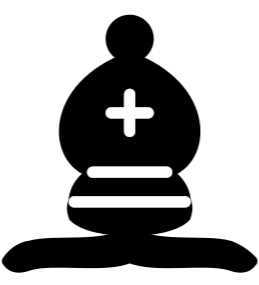
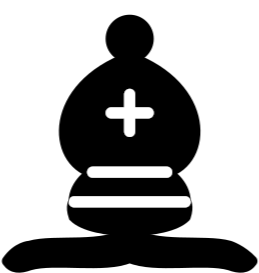
view: 기물들 위치 조정

diff --git a/src/main/resources/templates/index.html b/src/main/resources/templates/index.html
@@ -27,203 +27,203 @@
 {{#pieces}}
 <div style="position: relative;">
     <img src="/images/ChessBoard.png" alt="ChessBoard" width="800" height="800">
-    <div style="position: absolute; top: 30px; left: 25px;">
+    <div style="position: absolute; top: 25px; left: 25px;">
         <img src="/images/{{this.a8}}.png" alt="{{this.a8}}" width="50px" height="70px">
     </div>
-    <div style="position: absolute; top: 30px; left: 125px;">
+    <div style="position: absolute; top: 25px; left: 125px;">
         <img src="/images/{{this.b8}}.png" alt="{{this.b8}}" width="50px" height="70px">
     </div>
-    <div style="position: absolute; top: 30px; left: 225px;">
+    <div style="position: absolute; top: 25px; left: 225px;">
         <img src="/images/{{this.c8}}.png" alt="{{this.c8}}" width="50px" height="70px">
     </div>
-    <div style="position: absolute; top: 30px; left: 325px;">
+    <div style="position: absolute; top: 25px; left: 325px;">
         <img src="/images/{{this.d8}}.png" alt="{{this.d8}}" width="50px" height="70px">
     </div>
-    <div style="position: absolute; top: 30px; left: 425px;">
+    <div style="position: absolute; top: 25px; left: 425px;">
         <img src="/images/{{this.e8}}.png" alt="{{this.e8}}" width="50px" height="70px">
     </div>
-    <div style="position: absolute; top: 30px; left: 525px;">
+    <div style="position: absolute; top: 25px; left: 525px;">
         <img src="/images/{{this.f8}}.png" alt="{{this.f8}}" width="50px" height="70px">
     </div>
-    <div style="position: absolute; top: 30px; left: 625px;">
+    <div style="position: absolute; top: 25px; left: 625px;">
         <img src="/images/{{this.g8}}.png" alt="{{this.g8}}" width="50px" height="70px">
     </div>
-    <div style="position: absolute; top: 30px; left: 725px;">
+    <div style="position: absolute; top: 25px; left: 725px;">
         <img src="/images/{{this.h8}}.png" alt="{{this.h8}}" width="50px" height="70px">
     </div>
 
-    <div style="position: absolute; top: 130px; left: 25px;">
+    <div style="position: absolute; top: 125px; left: 25px;">
         <img src="/images/{{this.a7}}.png" alt="{{this.a7}}" width="50px" height="70px">
     </div>
-    <div style="position: absolute; top: 130px; left: 125px;">
+    <div style="position: absolute; top: 125px; left: 125px;">
         <img src="/images/{{this.b7}}.png" alt="{{this.b7}}" width="50px" height="70px">
     </div>
-    <div style="position: absolute; top: 130px; left: 225px;">
+    <div style="position: absolute; top: 125px; left: 225px;">
         <img src="/images/{{this.c7}}.png" alt="{{this.c7}}" width="50px" height="70px">
     </div>
-    <div style="position: absolute; top: 130px; left: 325px;">
+    <div style="position: absolute; top: 125px; left: 325px;">
         <img src="/images/{{this.d7}}.png" alt="{{this.d7}}" width="50px" height="70px">
     </div>
-    <div style="position: absolute; top: 130px; left: 425px;">
+    <div style="position: absolute; top: 125px; left: 425px;">
         <img src="/images/{{this.e7}}.png" alt="{{this.e7}}" width="50px" height="70px">
     </div>
-    <div style="position: absolute; top: 130px; left: 525px;">
+    <div style="position: absolute; top: 125px; left: 525px;">
         <img src="/images/{{this.f7}}.png" alt="{{this.f7}}" width="50px" height="70px">
     </div>
-    <div style="position: absolute; top: 130px; left: 625px;">
+    <div style="position: absolute; top: 125px; left: 625px;">
         <img src="/images/{{this.g7}}.png" alt="{{this.g7}}" width="50px" height="70px">
     </div>
-    <div style="position: absolute; top: 130px; left: 725px;">
+    <div style="position: absolute; top: 125px; left: 725px;">
         <img src="/images/{{this.h7}}.png" alt="{{this.h7}}" width="50px" height="70px">
     </div>
 
-    <div style="position: absolute; top: 230px; left: 25px;">
+    <div style="position: absolute; top: 225px; left: 25px;">
         <img src="/images/{{this.a6}}.png" alt="{{this.a6}}" width="50px" height="70px">
     </div>
-    <div style="position: absolute; top: 230px; left: 125px;">
+    <div style="position: absolute; top: 225px; left: 125px;">
         <img src="/images/{{this.b6}}.png" alt="{{this.a6}}" width="50px" height="70px">
     </div>
-    <div style="position: absolute; top: 230px; left: 225px;">
+    <div style="position: absolute; top: 225px; left: 225px;">
         <img src="/images/{{this.c6}}.png" alt="{{this.a6}}" width="50px" height="70px">
     </div>
-    <div style="position: absolute; top: 230px; left: 325px;">
+    <div style="position: absolute; top: 225px; left: 325px;">
         <img src="/images/{{this.d6}}.png" alt="{{this.a6}}" width="50px" height="70px">
     </div>
-    <div style="position: absolute; top: 230px; left: 425px;">
+    <div style="position: absolute; top: 225px; left: 425px;">
         <img src="/images/{{this.e6}}.png" alt="{{this.a6}}" width="50px" height="70px">
     </div>
-    <div style="position: absolute; top: 230px; left: 525px;">
+    <div style="position: absolute; top: 225px; left: 525px;">
         <img src="/images/{{this.f6}}.png" alt="{{this.a6}}" width="50px" height="70px">
     </div>
-    <div style="position: absolute; top: 230px; left: 625px;">
+    <div style="position: absolute; top: 225px; left: 625px;">
         <img src="/images/{{this.g6}}.png" alt="{{this.a6}}" width="50px" height="70px">
     </div>
-    <div style="position: absolute; top: 230px; left: 725px;">
+    <div style="position: absolute; top: 225px; left: 725px;">
         <img src="/images/{{this.h6}}.png" alt="{{this.a6}}" width="50px" height="70px">
     </div>
 
-    <div style="position: absolute; top: 330px; left: 25px;">
+    <div style="position: absolute; top: 325px; left: 25px;">
         <img src="/images/{{this.a5}}.png" alt="{{this.a5}}" width="50px" height="70px">
     </div>
-    <div style="position: absolute; top: 330px; left: 125px;">
+    <div style="position: absolute; top: 325px; left: 125px;">
         <img src="/images/{{this.b5}}.png" alt="{{this.a5}}" width="50px" height="70px">
     </div>
-    <div style="position: absolute; top: 330px; left: 225px;">
+    <div style="position: absolute; top: 325px; left: 225px;">
         <img src="/images/{{this.c5}}.png" alt="{{this.a5}}" width="50px" height="70px">
     </div>
-    <div style="position: absolute; top: 330px; left: 325px;">
+    <div style="position: absolute; top: 325px; left: 325px;">
         <img src="/images/{{this.d5}}.png" alt="{{this.a5}}" width="50px" height="70px">
     </div>
-    <div style="position: absolute; top: 330px; left: 425px;">
+    <div style="position: absolute; top: 325px; left: 425px;">
         <img src="/images/{{this.e5}}.png" alt="{{this.a5}}" width="50px" height="70px">
     </div>
-    <div style="position: absolute; top: 330px; left: 525px;">
+    <div style="position: absolute; top: 325px; left: 525px;">
         <img src="/images/{{this.f5}}.png" alt="{{this.a5}}" width="50px" height="70px">
     </div>
-    <div style="position: absolute; top: 330px; left: 625px;">
+    <div style="position: absolute; top: 325px; left: 625px;">
         <img src="/images/{{this.g5}}.png" alt="{{this.a5}}" width="50px" height="70px">
     </div>
-    <div style="position: absolute; top: 330px; left: 725px;">
+    <div style="position: absolute; top: 325px; left: 725px;">
         <img src="/images/{{this.h5}}.png" alt="{{this.a5}}" width="50px" height="70px">
     </div>
 
-    <div style="position: absolute; top: 430px; left: 25px;">
+    <div style="position: absolute; top: 425px; left: 25px;">
         <img src="/images/{{this.a4}}.png" alt="{{this.a4}}" width="50px" height="70px">
     </div>
-    <div style="position: absolute; top: 430px; left: 125px;">
+    <div style="position: absolute; top: 425px; left: 125px;">
         <img src="/images/{{this.b4}}.png" alt="{{this.b4}}" width="50px" height="70px">
     </div>
-    <div style="position: absolute; top: 430px; left: 225px;">
+    <div style="position: absolute; top: 425px; left: 225px;">
         <img src="/images/{{this.c4}}.png" alt="{{this.c4}}" width="50px" height="70px">
     </div>
-    <div style="position: absolute; top: 430px; left: 325px;">
+    <div style="position: absolute; top: 425px; left: 325px;">
         <img src="/images/{{this.d4}}.png" alt="{{this.d4}}" width="50px" height="70px">
     </div>
-    <div style="position: absolute; top: 430px; left: 425px;">
+    <div style="position: absolute; top: 425px; left: 425px;">
         <img src="/images/{{this.e4}}.png" alt="{{this.e4}}" width="50px" height="70px">
     </div>
-    <div style="position: absolute; top: 430px; left: 525px;">
+    <div style="position: absolute; top: 425px; left: 525px;">
         <img src="/images/{{this.f4}}.png" alt="{{this.f4}}" width="50px" height="70px">
     </div>
-    <div style="position: absolute; top: 430px; left: 625px;">
+    <div style="position: absolute; top: 425px; left: 625px;">
         <img src="/images/{{this.g4}}.png" alt="{{this.g4}}" width="50px" height="70px">
     </div>
-    <div style="position: absolute; top: 430px; left: 725px;">
+    <div style="position: absolute; top: 425px; left: 725px;">
         <img src="/images/{{this.h4}}.png" alt="{{this.h4}}" width="50px" height="70px">
     </div>
 
-    <div style="position: absolute; top: 530px; left: 25px;">
+    <div style="position: absolute; top: 525px; left: 25px;">
         <img src="/images/{{this.a3}}.png" alt="{{this.a3}}" width="50px" height="70px">
     </div>
-    <div style="position: absolute; top: 530px; left: 125px;">
+    <div style="position: absolute; top: 525px; left: 125px;">
         <img src="/images/{{this.b3}}.png" alt="{{this.b3}}" width="50px" height="70px">
     </div>
-    <div style="position: absolute; top: 530px; left: 225px;">
+    <div style="position: absolute; top: 525px; left: 225px;">
         <img src="/images/{{this.c3}}.png" alt="{{this.c3}}" width="50px" height="70px">
     </div>
-    <div style="position: absolute; top: 530px; left: 325px;">
+    <div style="position: absolute; top: 525px; left: 325px;">
         <img src="/images/{{this.d3}}.png" alt="{{this.d3}}" width="50px" height="70px">
     </div>
-    <div style="position: absolute; top: 530px; left: 425px;">
+    <div style="position: absolute; top: 525px; left: 425px;">
         <img src="/images/{{this.e3}}.png" alt="{{this.e3}}" width="50px" height="70px">
     </div>
-    <div style="position: absolute; top: 530px; left: 525px;">
+    <div style="position: absolute; top: 525px; left: 525px;">
         <img src="/images/{{this.f3}}.png" alt="{{this.f3}}" width="50px" height="70px">
     </div>
-    <div style="position: absolute; top: 530px; left: 625px;">
+    <div style="position: absolute; top: 525px; left: 625px;">
         <img src="/images/{{this.g3}}.png" alt="{{this.g3}}" width="50px" height="70px">
     </div>
-    <div style="position: absolute; top: 530px; left: 725px;">
+    <div style="position: absolute; top: 525px; left: 725px;">
         <img src="/images/{{this.h3}}.png" alt="{{this.h3}}" width="50px" height="70px">
     </div>
 
-    <div style="position: absolute; top: 630px; left: 25px;">
+    <div style="position: absolute; top: 625px; left: 25px;">
         <img src="/images/{{this.a2}}.png" alt="{{this.a2}}" width="50px" height="70px">
     </div>
-    <div style="position: absolute; top: 630px; left: 125px;">
+    <div style="position: absolute; top: 625px; left: 125px;">
         <img src="/images/{{this.b2}}.png" alt="{{this.b2}}" width="50px" height="70px">
     </div>
-    <div style="position: absolute; top: 630px; left: 225px;">
+    <div style="position: absolute; top: 625px; left: 225px;">
         <img src="/images/{{this.c2}}.png" alt="{{this.c2}}" width="50px" height="70px">
     </div>
-    <div style="position: absolute; top: 630px; left: 325px;">
+    <div style="position: absolute; top: 625px; left: 325px;">
         <img src="/images/{{this.d2}}.png" alt="{{this.d2}}" width="50px" height="70px">
     </div>
-    <div style="position: absolute; top: 630px; left: 425px;">
+    <div style="position: absolute; top: 625px; left: 425px;">
         <img src="/images/{{this.e2}}.png" alt="{{this.e2}}" width="50px" height="70px">
     </div>
-    <div style="position: absolute; top: 630px; left: 525px;">
+    <div style="position: absolute; top: 625px; left: 525px;">
         <img src="/images/{{this.f2}}.png" alt="{{this.f2}}" width="50px" height="70px">
     </div>
-    <div style="position: absolute; top: 630px; left: 625px;">
+    <div style="position: absolute; top: 625px; left: 625px;">
         <img src="/images/{{this.g2}}.png" alt="{{this.g2}}" width="50px" height="70px">
     </div>
-    <div style="position: absolute; top: 630px; left: 725px;">
+    <div style="position: absolute; top: 625px; left: 725px;">
         <img src="/images/{{this.h2}}.png" alt="{{this.h2}}" width="50px" height="70px">
     </div>
 
-    <div style="position: absolute; top: 730px; left: 25px;">
+    <div style="position: absolute; top: 725px; left: 25px;">
         <img src="/images/{{this.a1}}.png" alt="{{this.a1}}" width="50px" height="70px">
     </div>
-    <div style="position: absolute; top: 730px; left: 125px;">
+    <div style="position: absolute; top: 725px; left: 125px;">
         <img src="/images/{{this.b1}}.png" alt="{{this.b1}}" width="50px" height="70px">
     </div>
-    <div style="position: absolute; top: 730px; left: 225px;">
+    <div style="position: absolute; top: 725px; left: 225px;">
         <img src="/images/{{this.c1}}.png" alt="{{this.c1}}" width="50px" height="70px">
     </div>
-    <div style="position: absolute; top: 730px; left: 325px;">
+    <div style="position: absolute; top: 725px; left: 325px;">
         <img src="/images/{{this.d1}}.png" alt="{{this.d1}}" width="50px" height="70px">
     </div>
-    <div style="position: absolute; top: 730px; left: 425px;">
+    <div style="position: absolute; top: 725px; left: 425px;">
         <img src="/images/{{this.e1}}.png" alt="{{this.e1}}" width="50px" height="70px">
     </div>
-    <div style="position: absolute; top: 730px; left: 525px;">
+    <div style="position: absolute; top: 725px; left: 525px;">
         <img src="/images/{{this.f1}}.png" alt="{{this.f1}}" width="50px" height="70px">
     </div>
-    <div style="position: absolute; top: 730px; left: 625px;">
+    <div style="position: absolute; top: 725px; left: 625px;">
         <img src="/images/{{this.g1}}.png" alt="{{this.g1}}" width="50px" height="70px">
     </div>
-    <div style="position: absolute; top: 730px; left: 725px;">
+    <div style="position: absolute; top: 725px; left: 725px;">
         <img src="/images/{{this.h1}}.png" alt="{{this.h1}}" width="50px" height="70px">
     </div>
 </div>
